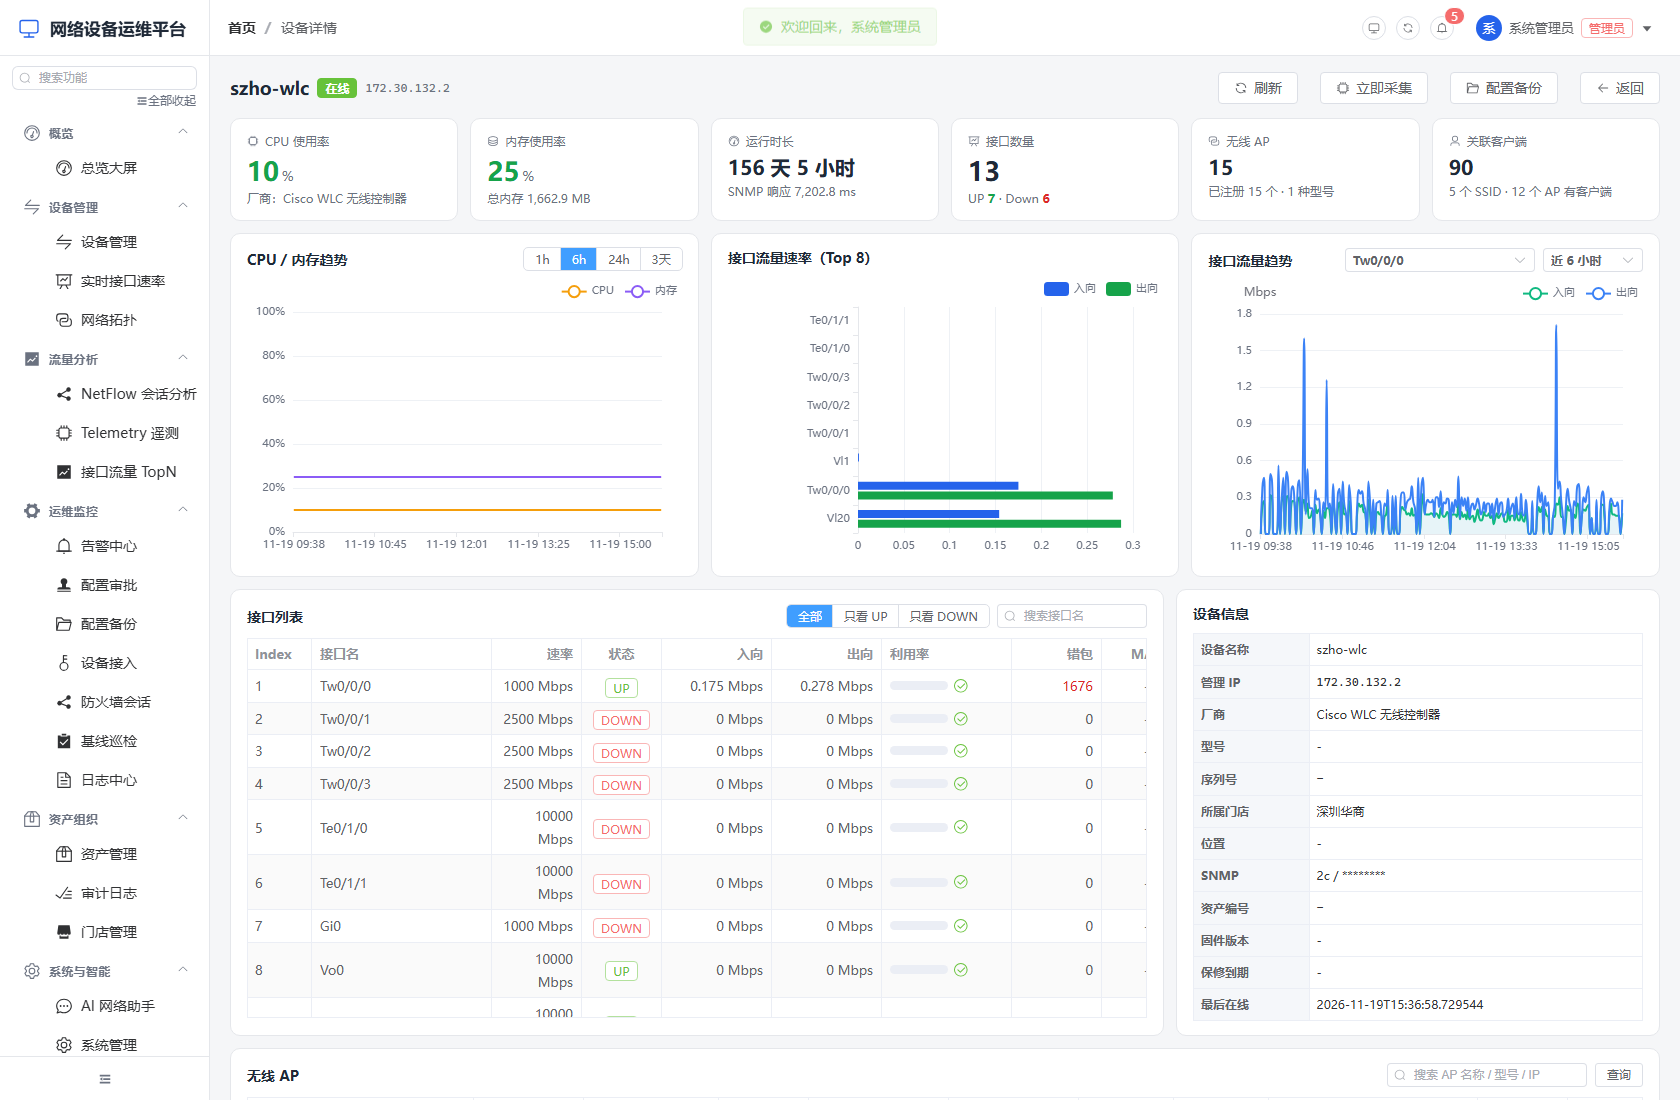
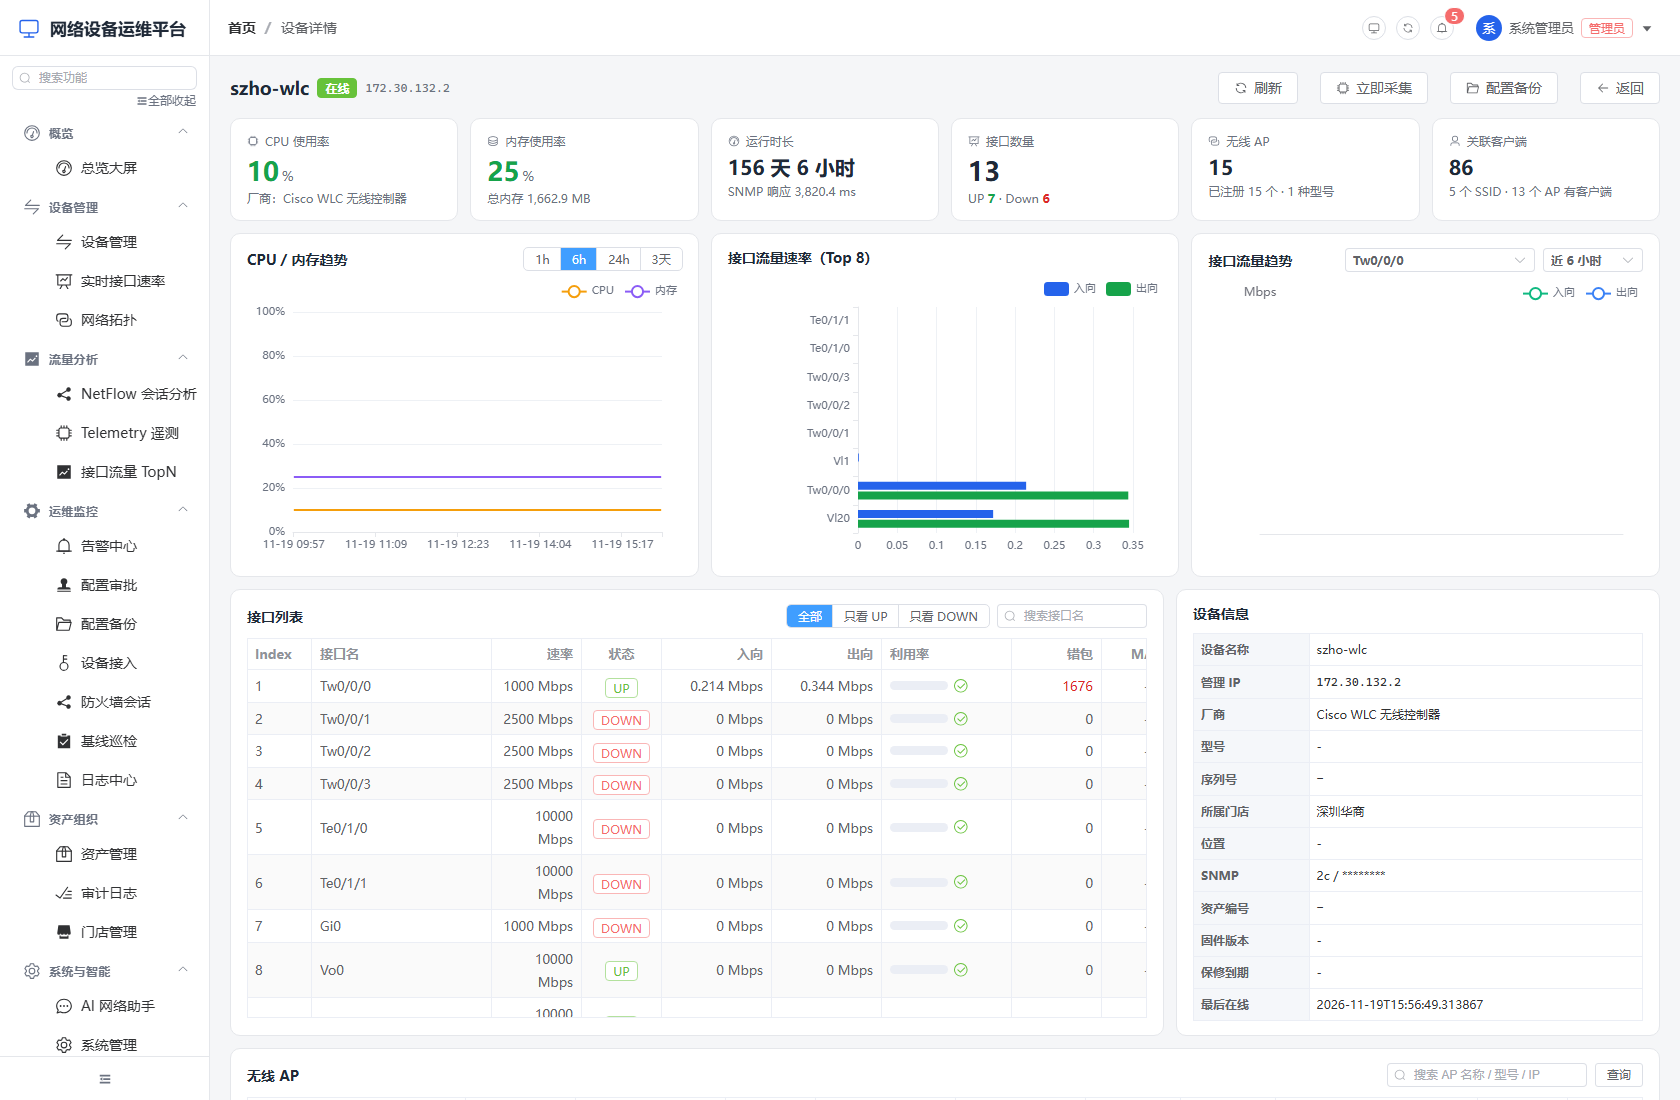
feat: 客户端删除 API / 列宽优化 / 漫游检测 / 控制器数据说明
1. 删除无线客户端：DELETE /api/devices/{id}/wireless/clients/{mac}
   ——服务内执行（外部 sqlite 连接在 WAL 高并发下会报 readonly）；
   已删除不存在的客户端 c2:d3:d0:ae:0a:1b
2. 列宽优化：MAC 135→155、IP 130/135→150——地址/数字完整显示
3. 客户端漫游检测：MDT 合并时对比 AP 变化（旧值非空且与新值
   不同）→ wireless_roaming 记录（from/to AP/BSSID/信道/RSSI/
   SNR）——遥测数据里 ms-assoc-time + ap-name 的变化即漫游
4. 控制器数据现状：
   - szho-wlc 内存 25%（SNMP）✓ 接口 14 个 ✓
   - fsbcwlc 内存无数据源（sys-report 只推 CPU；建议加订阅
     /process-memory-ios-xe-oper:memory-usage 或开 SNMP）
   - fsbcwlc 接口 1 个（gNMI 遥测 TenGig1/0/1）

回归：verify_wireless_v2 28/28、verify_gnmi_switch 16/16

diff --git a/frontend/src/views/DeviceDetailView.vue b/frontend/src/views/DeviceDetailView.vue
@@ -267,7 +267,7 @@
         >
           <el-table-column prop="name" label="AP 名称" min-width="130" show-overflow-tooltip />
           <el-table-column prop="model" label="型号" width="110" show-overflow-tooltip />
-          <el-table-column prop="ip" label="IP 地址" width="135" class-name="mono" show-overflow-tooltip />
+          <el-table-column prop="ip" label="IP 地址" width="150" class-name="mono" show-overflow-tooltip />
           <el-table-column prop="client_count" label="客户端数" width="90" align="center" sortable>
             <template #default="{ row }">
               <el-tag v-if="row.client_count > 0" size="small" effect="plain" type="success">
@@ -364,8 +364,8 @@
           max-height="420"
           empty-text="暂无客户端数据"
         >
-          <el-table-column prop="mac" label="MAC 地址" width="135" class-name="mono" show-overflow-tooltip />
-          <el-table-column prop="ip" label="IP 地址" width="130" class-name="mono" show-overflow-tooltip />
+          <el-table-column prop="mac" label="MAC 地址" width="155" class-name="mono" show-overflow-tooltip />
+          <el-table-column prop="ip" label="IP 地址" width="150" class-name="mono" show-overflow-tooltip />
           <el-table-column prop="ap_name" label="所属 AP" min-width="115" show-overflow-tooltip />
           <el-table-column prop="ssid" label="SSID" min-width="130" show-overflow-tooltip />
           <el-table-column label="信道" width="70" align="center">
@@ -460,7 +460,7 @@
           <el-table-column prop="ts" label="时间" width="160">
             <template #default="{ row }">{{ (row.ts || '').replace('T', ' ').slice(0, 19) }}</template>
           </el-table-column>
-          <el-table-column prop="mac" label="客户端 MAC" width="135" class-name="mono" show-overflow-tooltip />
+          <el-table-column prop="mac" label="客户端 MAC" width="155" class-name="mono" show-overflow-tooltip />
           <el-table-column label="漫游路径" min-width="280">
             <template #default="{ row }">
               <span class="text-muted">{{ row.from_ap || row.from_bssid }}</span>

diff --git a/backend/app/collectors/mdt.py b/backend/app/collectors/mdt.py
@@ -720,7 +720,7 @@ def update_wireless_from_msg(msg: mdt_pb2.Telemetry, device_id) -> int:
         return 0
 
     from app.db.session import SessionLocal
-    from app.models.models import WirelessAP, WirelessClient
+    from app.models.models import WirelessAP, WirelessClient, WirelessRoaming
 
     touched = 0
     db = SessionLocal()
@@ -939,12 +939,17 @@ def update_wireless_from_msg(msg: mdt_pb2.Telemetry, device_id) -> int:
             # sisf 批例外：SISF 是全网 IP↔MAC 绑定库（含有线），
             # 不能按它建无线客户端行——只更新已有行
             c = clients.get(mac)
+            is_new = c is None
             if c is None:
                 if is_sisf:
                     continue
                 c = WirelessClient(device_id=device_id, mac=mac, ts=now)
                 clients[mac] = c
                 db.add(c)
+            # 漫游检测：AP 变化（旧值非空且与新值不同）即记录
+            old_ap = c.ap_name or ""
+            old_bssid = c.bssid or ""
+            old_channel = c.channel or 0
             changed = False
             if is_location:
                 snr = leaves.get("radio-measurements.snr")
@@ -1025,6 +1030,28 @@ def update_wireless_from_msg(msg: mdt_pb2.Telemetry, device_id) -> int:
                         changed = True
                 # 信道：客户端条目不含信道（由 AP radio 决定），
                 # wlan-id / vlan 类数值字段暂无展示列，忽略
+            # 漫游事件：AP 切换（客户端在不同 AP 间移动）
+            if (
+                not is_new
+                and old_ap
+                and c.ap_name
+                and c.ap_name != old_ap
+            ):
+                db.add(
+                    WirelessRoaming(
+                        device_id=device_id,
+                        mac=c.mac,
+                        from_ap=old_ap,
+                        to_ap=c.ap_name,
+                        from_bssid=old_bssid,
+                        to_bssid=c.bssid or "",
+                        from_channel=old_channel,
+                        to_channel=c.channel or 0,
+                        rssi=c.rssi or 0,
+                        snr=c.snr or 0,
+                        ts=now,
+                    )
+                )
             # 遥测来源：SNMP 轮询不再覆盖此行的遥测字段
             c.source = "telemetry"
             if changed:

diff --git a/backend/app/api/devices.py b/backend/app/api/devices.py
@@ -670,6 +670,26 @@ def list_wireless_aps(
     }
 
 
+@router.delete("/devices/{device_id}/wireless/clients/{mac}")
+def delete_wireless_client(
+    device_id: int,
+    mac: str,
+    db: Session = Depends(get_db),
+    _: User = Depends(get_current_user),
+):
+    """删除指定无线客户端行（误建的行/不存在的客户端）。"""
+    n = (
+        db.query(WirelessClient)
+        .filter(
+            WirelessClient.device_id == device_id,
+            WirelessClient.mac == mac,
+        )
+        .delete(synchronize_session=False)
+    )
+    db.commit()
+    return {"ok": True, "deleted": n}
+
+
 @router.get("/devices/{device_id}/wireless/clients")
 def list_wireless_clients(
     device_id: int,
